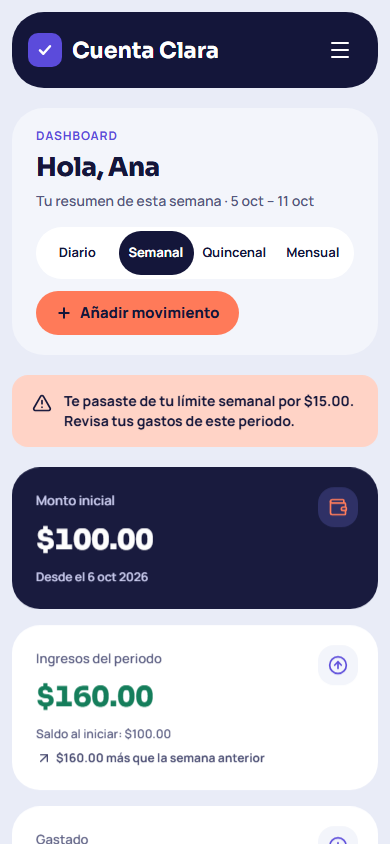
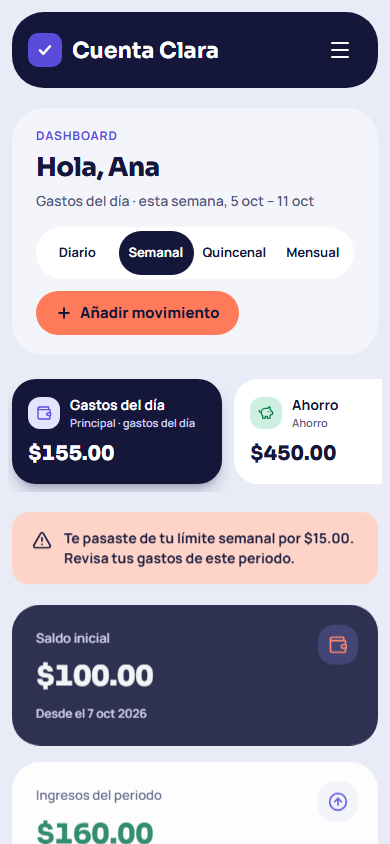
docs: rewrite the README as a short public overview
What the app is, what it does and what it has, with screenshots of every
screen. Run instructions, local URLs, environment variables and internal
details are left out of the public front page.

diff --git a/README.md b/README.md
@@ -1,162 +1,69 @@
 # Cuenta Clara
 
-[![CI](https://github.com/itssmauu/cuenta-clara/actions/workflows/ci.yml/badge.svg)](https://github.com/itssmauu/cuenta-clara/actions/workflows/ci.yml)
+**Sabe cuánto te queda antes de gastarlo.**
 
-Aplicación web de finanzas personales: registra tu monto inicial, tus gastos fijos y tus ingresos, y descubre cuánto te queda **antes** de gastarlo.
+Cuenta Clara es una aplicación web de finanzas personales. Registras con cuánto dinero cuentas, tus gastos fijos y tus ingresos, y la app te muestra tu saldo, a dónde va tu dinero y cuánto te quedará en las próximas semanas, antes de que llegue el momento de gastarlo.
 
-Proyecto personal de portafolio: backend en FastAPI, frontend en Next.js, PostgreSQL, Docker y CI completo, con la seguridad como requisito central.
+Es un proyecto personal de portafolio, hecho con cuidado en el diseño, la accesibilidad y la seguridad.
 
-![Dashboard de Cuenta Clara: tarjetas de saldo, gráfica de gasto contra límite y gastos de la semana](docs/screenshots/dashboard.png)
+![Dashboard de Cuenta Clara: tus cuentas, saldo, gasto contra límite y gastos de la semana](docs/screenshots/dashboard.png)
 
-| Landing | Registro | Predicción |
-| --- | --- | --- |
-| ![Landing](docs/screenshots/landing.png) | ![Registro con requisitos de contraseña en vivo](docs/screenshots/registro.png) | ![Predicción de saldo por semana](docs/screenshots/prediccion.png) |
+## De qué trata
 
-| Metas de ahorro | Reportes | Móvil |
-| --- | --- | --- |
-| ![Metas de ahorro con progreso](docs/screenshots/metas.png) | ![Reportes: comparación y gasto por categoría](docs/screenshots/reportes.png) | ![Dashboard en móvil](docs/screenshots/dashboard-movil.png) |
+Mucha gente sabe cuánto tiene hoy, pero no cuánto le quedará al final de la semana o del mes. Cuenta Clara hace esas cuentas por ti:
 
-## ¿Qué hace?
-
-1. Te registras e indicas tu **monto inicial**.
-2. Añades tus **gastos fijos** (internet, datos móviles, pasaje…).
-3. Indicas cuánto **ingresas** y con qué frecuencia (diario, semanal, quincenal, mensual o personalizado).
+1. Indicas tus **cuentas** (la de gastos del día, la de ahorro, la de fondos…) y cuánto tiene cada una.
+2. Añades tus **gastos fijos**: internet, datos, pasaje…
+3. Indicas cuánto **ingresas** y cada cuánto: diario, semanal, quincenal, mensual o a tu medida.
 4. La app te muestra tu saldo, una **proyección por periodo** y si vas dentro o por encima de tu **límite de gasto**.
 
-Ejemplo: monto inicial $100, gasto semanal $30 → quedan $70. Si ese periodo ingresan $160 → saldo proyectado **$230**.
+> Si tienes $100 y gastas $30, te quedan $70. Si esa semana recibes $160, tu saldo proyectado es **$230**.
 
-### Funcionalidades
+## Qué tiene
 
-- **Onboarding de 4 pasos:** monto inicial → gastos fijos → ingreso y frecuencia → límite de gasto.
-- **Dashboard:** saldo, ingresos y gasto del periodo (diario, semanal, quincenal o mensual); gráfica de gasto contra límite que marca en coral los periodos en que te pasaste; próximos gastos fijos; gastos del periodo.
-- **Ingresos y gastos fijos recurrentes**, que se suman y restan solos en sus fechas. Se pueden pausar sin borrarlos.
-- **Movimientos** sueltos con filtros por fecha, tipo y categoría.
-- **Predicción** del saldo para los próximos 4, 8 o 12 periodos.
-- **Configuración:** monto inicial, moneda, periodo, límite y categorías propias.
-- **Metas de ahorro** con progreso y cuánto apartar por periodo para llegar a la fecha.
-- **Alerta al 80 % del límite** y **comparación con el periodo anterior** en el dashboard.
-- **Gasto por categoría** y **reportes** que comparan periodos.
-- **Exportar a CSV**, protegido contra inyección de fórmulas.
-- **Predicción con tendencia:** regresión lineal sobre tu historial, explicada en la propia página.
+- **Página de inicio** que explica la app, con animaciones y demos interactivas.
+- **Registro e inicio de sesión** con una proyección animada y requisitos de contraseña en vivo.
+- **Onboarding** guiado: tus cuentas, gastos fijos, ingresos y límite.
+- **Dashboard:**
+  - tu saldo, lo que ingresaste y lo que gastaste en el periodo;
+  - la gráfica de gasto contra tu límite;
+  - el gasto por categoría y los próximos pagos.
+- **Varias cuentas:** gastos del día, ahorro, fondos… cada una con su saldo, y puedes **mover dinero** entre ellas sin que cuente como gasto.
+- **Ingresos y gastos fijos** que se registran solos en sus fechas, y que puedes pausar.
+- **Movimientos** sueltos, con filtros.
+- **Predicción** de tu saldo para las próximas semanas o meses, con promedio o tendencia.
+- **Metas de ahorro** que te dicen cuánto apartar por periodo para llegar a tiempo.
+- **Alertas** al acercarte a tu límite y **comparación** con el periodo anterior.
+- **Reportes** descargables en **CSV o PDF**.
+- Pensada para **celular y escritorio**, accesible con teclado y lector de pantalla.
 
-## Stack
+## Capturas
 
-| Capa | Tecnología |
-| --- | --- |
-| Frontend | Next.js (App Router), TypeScript, Tailwind CSS, React Hook Form + Zod, Recharts |
-| Backend | Python 3.12, FastAPI, SQLAlchemy 2.x, Alembic, Pydantic v2 |
-| Base de datos | PostgreSQL 16 |
-| Infra local | Docker Compose |
-| Calidad | pytest, Vitest + Testing Library, Playwright + axe-core, ruff, ESLint + Prettier, GitHub Actions |
-
-## Arquitectura
-
-```mermaid
-flowchart LR
-    B[Navegador] -- "HTTPS · cookies HttpOnly" --> W["Next.js 16<br/>páginas + proxy /api<br/>CSP con nonce"]
-    W -- "/api/* (rewrite)" --> A["FastAPI<br/>auth · CRUD · cálculos"]
-    A -- SQLAlchemy --> D[(PostgreSQL 16)]
-```
-
-El navegador solo habla con la app web; Next.js reenvía `/api/*` a FastAPI, así que las cookies de sesión son del mismo origen. Detalle por capas, flujo de autenticación y modelo de datos en [`docs/architecture.md`](docs/architecture.md).
-
-## Cómo correrlo
-
-Requisitos: [Docker Desktop](https://www.docker.com/products/docker-desktop/) y Git.
-
-```bash
-git clone https://github.com/itssmauu/cuenta-clara.git
-cd cuenta-clara
-cp .env.example .env   # edita los valores
-docker compose up -d --build
-```
-
-Esto levanta PostgreSQL 16, la API (que aplica las migraciones al arrancar) y el frontend:
-
-- App web: <http://localhost:3000>
-- API: <http://localhost:8000/api/v1/health>
-- Documentación interactiva (Swagger): <http://localhost:8000/docs>
-
-Para trabajar sin Docker, ver [`backend/README.md`](backend/README.md) y [`frontend/README.md`](frontend/README.md).
-
-> **¿Ya tienes PostgreSQL instalado en tu máquina?** Ocupa el puerto 5432. Cambia `POSTGRES_PORT=5433` en `.env` (y el puerto en `DATABASE_URL` / `TEST_DATABASE_URL`).
-
-## Variables de entorno
-
-Definidas en [`.env.example`](.env.example). Nunca se commitea `.env`.
-
-| Variable | Descripción |
-| --- | --- |
-| `POSTGRES_USER` | Usuario de la base de datos |
-| `POSTGRES_PASSWORD` | Contraseña de la base de datos |
-| `POSTGRES_DB` | Nombre de la base de datos |
-| `POSTGRES_PORT` | Puerto del host (solo `127.0.0.1`), por defecto `5432` |
-| `APP_ENV` | `development`, `test` o `production` (en producción se desactiva `/docs`) |
-| `LOG_LEVEL` | `DEBUG`, `INFO`, `WARNING` o `ERROR` |
-| `BACKEND_PORT` | Puerto del host para la API, por defecto `8000` |
-| `DATABASE_URL` | Conexión de la API cuando corre fuera de Docker |
-| `TEST_DATABASE_URL` | Base **desechable** para los tests (se borra en cada corrida) |
-| `JWT_SECRET_KEY` | Clave para firmar los tokens (≥ 32 caracteres aleatorios) |
-| `ACCESS_TOKEN_TTL_MINUTES` / `REFRESH_TOKEN_TTL_DAYS` | Duración de la sesión (15 min / 7 días) |
-| `COOKIE_SECURE` | Cookies solo por HTTPS; obligatorio `true` en producción |
-| `LOGIN_RATE_LIMIT` / `REGISTER_RATE_LIMIT` / `EMAIL_RATE_LIMIT` | Límites por IP y por correo |
-| `MAX_FAILED_LOGINS` / `LOCKOUT_MINUTES` | Bloqueo temporal tras intentos fallidos |
-| `FRONTEND_ORIGIN` | Único origen permitido por CORS |
-| `FORWARDED_ALLOW_IPS` | IPs de proxy en las que la API confía para `X-Forwarded-For` |
-| `FRONTEND_PORT` | Puerto del host para la app web, por defecto `3000` |
-| `API_INTERNAL_URL` | A dónde reenvía Next.js las peticiones `/api/*` |
-
-## Estructura
-
-```
-cuenta-clara/
-├─ backend/            # API FastAPI
-├─ frontend/           # App Next.js
-├─ infra/              # scripts de infraestructura (init de Postgres)
-├─ docs/               # arquitectura, decisiones, seguridad, cálculos, pruebas, capturas
-├─ .github/workflows/  # CI
-├─ docker-compose.yml
-└─ .env.example
-```
-
-## Roadmap
-
-- [x] **Fase 0:** base del repo, Docker Compose con Postgres, CI
-- [x] **Fase 1:** backend núcleo (config, BD, modelos, migraciones, salud)
-- [x] **Fase 2:** autenticación segura (Argon2id, JWT + refresh rotativo, rate limiting)
-- [x] **Fase 3:** datos financieros (ajustes, ingresos, gastos fijos, transacciones, categorías)
-- [x] **Fase 4:** dashboard y predicción
-- [x] **Fase 5:** frontend base (tokens de diseño, landing, login/registro)
-- [x] **Fase 6:** onboarding y dashboard
-- [x] **Fase 7:** resto de pantallas
-- [x] **Fase 8:** pulido, accesibilidad, E2E y documentación
-- [x] **Fase 9:** metas de ahorro, alertas al 80 % del límite, comparación con el periodo anterior, gasto por categoría, exportar a CSV y predicción con regresión lineal
-
-## Calidad y pruebas
-
-Cada push a `main` y cada PR pasan por CI: lint, tipos, pruebas, build, auditoría de dependencias y el stack completo en Docker con pruebas end-to-end.
-
-| Nivel | Herramienta | Qué cubre |
+| Inicio | Registro | Cuentas |
 | --- | --- | --- |
-| Backend | pytest | Cálculos (incluido 100 − 30 + 160 = 230), API, seguridad (tokens falsificados, CSRF, rate limiting, bloqueo) y anti-IDOR por recurso |
-| Frontend | Vitest + Testing Library | Validaciones, cliente de API, formularios, dashboard y cada pantalla |
-| End-to-end | Playwright | Registro → onboarding → dashboard → movimientos → cerrar sesión, contra el stack real |
-| Accesibilidad | axe-core | Auditoría WCAG 2.2 AA de **todas** las pantallas, sin violaciones |
+| ![Página de inicio](docs/screenshots/landing.png) | ![Registro con requisitos de contraseña en vivo](docs/screenshots/registro.png) | ![Cuentas: gastos del día y ahorro](docs/screenshots/cuentas.png) |
 
-Cómo correr cada nivel: [`docs/testing.md`](docs/testing.md).
+| Predicción | Metas de ahorro | Reportes |
+| --- | --- | --- |
+| ![Predicción de saldo por semana](docs/screenshots/prediccion.png) | ![Metas de ahorro con progreso](docs/screenshots/metas.png) | ![Reportes: comparación y gasto por categoría](docs/screenshots/reportes.png) |
 
-## Documentación
+<p align="center">
+  <img src="docs/screenshots/dashboard-movil.png" alt="Dashboard en el celular" width="300">
+</p>
 
-| Documento | Contenido |
-| --- | --- |
-| [`docs/architecture.md`](docs/architecture.md) | Capas, flujo de una petición, autenticación y modelo de datos |
-| [`docs/security.md`](docs/security.md) | Cada medida de seguridad, dónde está y qué test la cubre |
-| [`docs/calculations.md`](docs/calculations.md) | Cómo se calculan el saldo, el límite y la predicción |
-| [`docs/testing.md`](docs/testing.md) | Estrategia de pruebas y cómo ejecutarlas |
-| [`docs/decisions.md`](docs/decisions.md) | Registro de decisiones con su porqué |
+## Privacidad y seguridad
 
-## Seguridad
+Tus finanzas son solo tuyas:
 
-La app maneja información financiera, así que la seguridad es un requisito central: Argon2id, sesiones en cookies `HttpOnly` con refresh rotativo y detección de robo, CSRF, rate limiting, bloqueo temporal y errores que no revelan qué correos existen. Detalle completo, con dónde está implementada cada medida y qué test la cubre, en [`docs/security.md`](docs/security.md).
+- Las contraseñas se guardan cifradas.
+- Las sesiones son seguras.
+- Nadie más puede ver tus datos.
+- La app **nunca te pide números de cuenta, tarjetas ni claves bancarias**: tus cuentas se reconocen solo por un nombre que tú eliges.
 
-Cómo se calculan el saldo, el límite de gasto y la predicción: [`docs/calculations.md`](docs/calculations.md).
+## Hecho con
+
+Next.js · TypeScript · Tailwind CSS · Python · FastAPI · PostgreSQL · Docker
+
+---
+
+Proyecto personal de portafolio.
